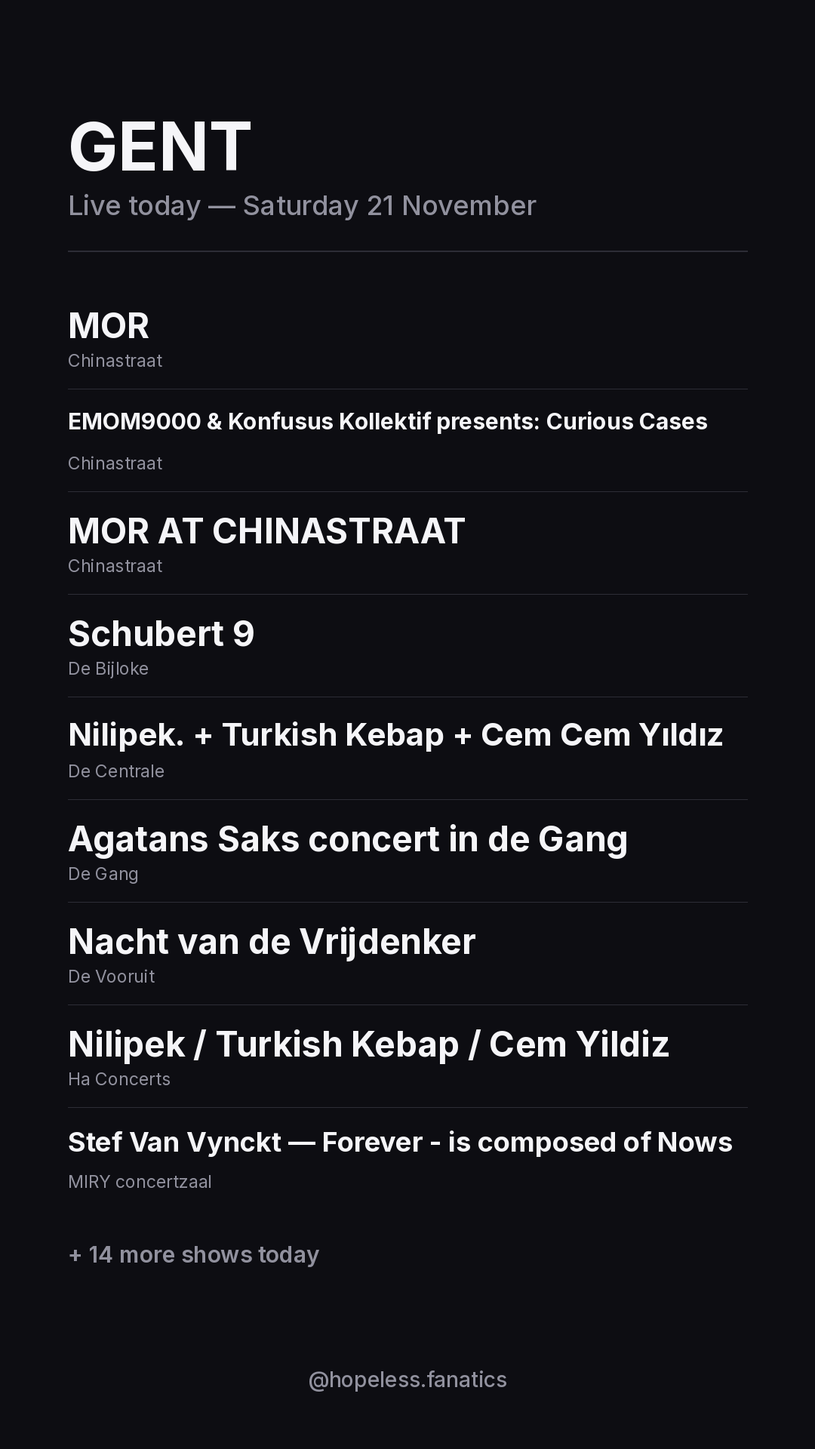
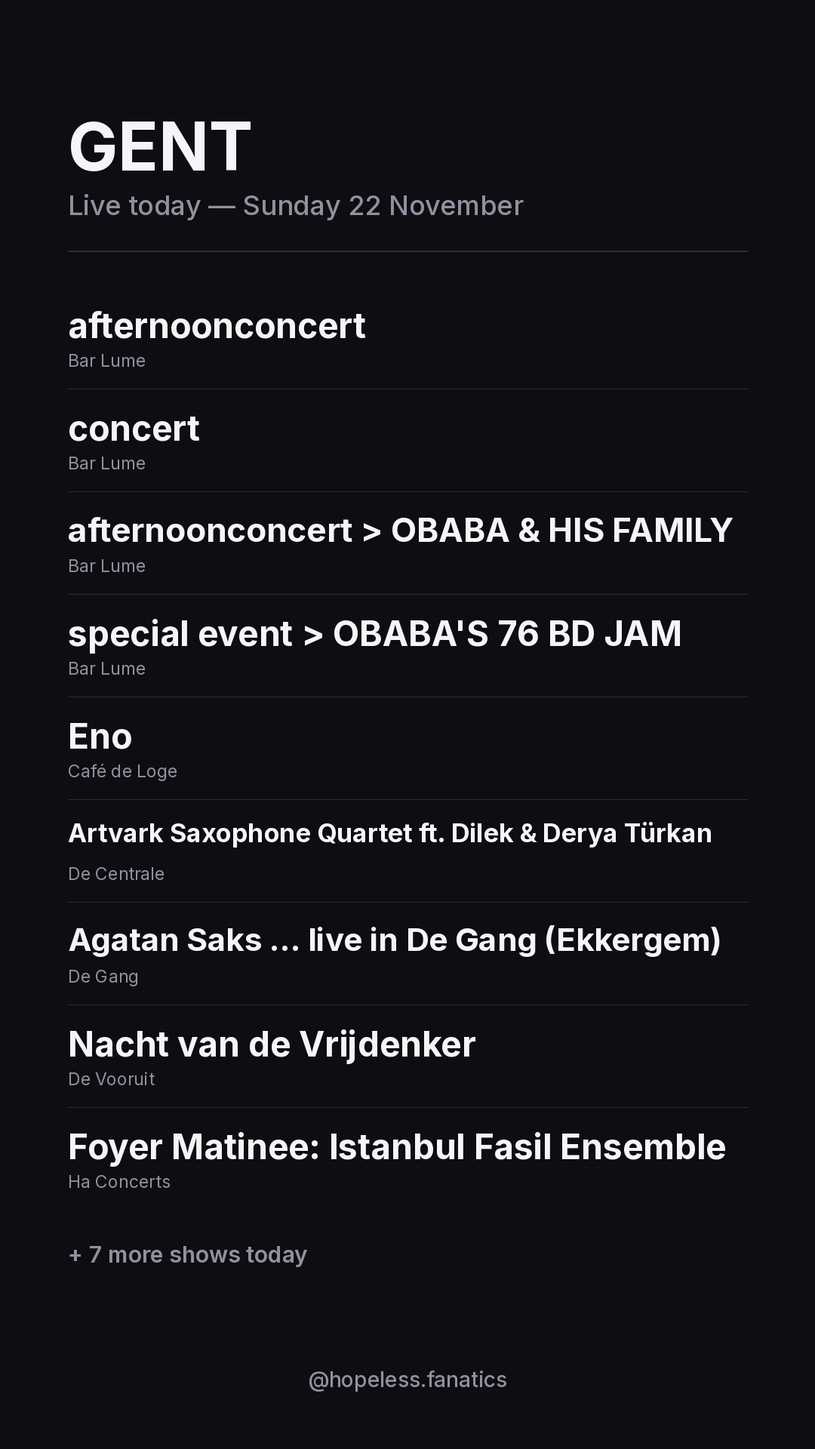
Update concert listing

diff --git a/index.html b/index.html
@@ -128,226 +128,14 @@
       <div class="filters">
         <label>Venue
           <input id="venue-filter" type="search" list="venue-options" placeholder="All venues — type to filter" autocomplete="off">
-          <datalist id="venue-options"><option value="Asgaard Gentbrugge"></option><option value="Bar Lume"></option><option value="Begijnhof Onze-Lieve-Vrouw ter Hoyen Klein Begijnhof Gent"></option><option value="Bij&#x27; De Vieze Gasten"></option><option value="Bijlokesite"></option><option value="Buurthuis Het Hoeveke"></option><option value="Café Molotov"></option><option value="Café de Loge"></option><option value="Capitole Gent"></option><option value="Charlatan"></option><option value="Chinastraat"></option><option value="Christus Koningkerk"></option><option value="Cinema Sphinx"></option><option value="De Bijloke"></option><option value="De Blaisantkerk en de Blaisanterie"></option><option value="De Centrale"></option><option value="De Centrale (Turbinezaal)"></option><option value="De Gang"></option><option value="De Kleine Sikkel"></option><option value="De Koer"></option><option value="De Vierde Zaal"></option><option value="De Vooruit"></option><option value="Feeszaal Brouwerij Haeseveld"></option><option value="Geheel de Uwe"></option><option value="Gent OLV kerk Klein Begijnhof"></option><option value="Grand Salon CRAL"></option><option value="Ha Concerts"></option><option value="Het Huis van Alijn"></option><option value="Hot Club Gent"></option><option value="Jeugdhuis Asgaard"></option><option value="Kapel Klein Begijnhof"></option><option value="Kapel Petit"></option><option value="Kerk van de Paters Karmelieten Gent"></option><option value="LDC De Vlaschaard"></option><option value="Lakenmetershuis"></option><option value="MIRY concertzaal"></option><option value="Marriott Hotel"></option><option value="Meerdere locaties in Gent en omstreken"></option><option value="Minardschouwburg"></option><option value="Miry Concertzaal"></option><option value="Miry zaal (conservatorium Gent)"></option><option value="Museum voor Schone Kunsten Gent (MSK)"></option><option value="Muziekcentrum De Bijloke Gent"></option><option value="Muziekcentrum Kinky Star"></option><option value="Muzikantenhuis vzw"></option><option value="NV Zebrastraat"></option><option value="Nieuwe Melac"></option><option value="O.L.V. Sint-Pieterskerk"></option><option value="Orpheus Instituut"></option><option value="Paulushuis"></option><option value="Pentagon"></option><option value="Ringo Music Bar"></option><option value="S.M.A.K. - Stedelijk Museum voor Actuele Kunst"></option><option value="Sint Amanduskerk"></option><option value="Sint Gerolfkerk"></option><option value="Sint Lievenscollege"></option><option value="Sint Niklaaskerk"></option><option value="Sint Pauluskerk"></option><option value="Sint Pieterskerk"></option><option value="Sint-Amanduskerk"></option><option value="Sint-Baafskathedraal"></option><option value="Sint-Coleta Kerk"></option><option value="Sint-Coletakerk"></option><option value="Sint-Lievenskerk"></option><option value="Sint-Stefanuskerk"></option><option value="Sint-Widostraat"></option><option value="Stoom | Sociale stadssauna"></option><option value="Theater Box"></option><option value="Theaterzaal NTGent"></option><option value="Trefpunt - Café"></option><option value="Trefpunt - Concertzaal"></option><option value="VIERNULVIER"></option><option value="Vooruit (concertzaal)"></option><option value="Westerbegraafplaats Gent"></option><option value="Wintercircus"></option><option value="Zaal Club Black Box"></option><option value="Zaal Goedleven"></option><option value="karmelietenkerk"></option><option value="parochiehuis Sint-Paulus"></option></datalist>
+          <datalist id="venue-options"><option value="Asgaard Gentbrugge"></option><option value="Bar Lume"></option><option value="Begijnhof Onze-Lieve-Vrouw ter Hoyen Klein Begijnhof Gent"></option><option value="Bij&#x27; De Vieze Gasten"></option><option value="Bijlokesite"></option><option value="Buurthuis Het Hoeveke"></option><option value="Café Molotov"></option><option value="Café de Loge"></option><option value="Capitole Gent"></option><option value="Charlatan"></option><option value="Chinastraat"></option><option value="Christus Koningkerk"></option><option value="Cinema Sphinx"></option><option value="De Bijloke"></option><option value="De Blaisantkerk en de Blaisanterie"></option><option value="De Centrale"></option><option value="De Centrale (Turbinezaal)"></option><option value="De Gang"></option><option value="De Kleine Sikkel"></option><option value="De Koer"></option><option value="De Vierde Zaal"></option><option value="De Vooruit"></option><option value="Feeszaal Brouwerij Haeseveld"></option><option value="Geheel de Uwe"></option><option value="Gent OLV kerk Klein Begijnhof"></option><option value="Grand Salon CRAL"></option><option value="Ha Concerts"></option><option value="Het Huis van Alijn"></option><option value="Hot Club Gent"></option><option value="Jeugdhuis Asgaard"></option><option value="Kapel Klein Begijnhof"></option><option value="Kapel Petit"></option><option value="Kerk van de Paters Karmelieten Gent"></option><option value="LDC De Vlaschaard"></option><option value="Lakenmetershuis"></option><option value="MIRY concertzaal"></option><option value="Marriott Hotel"></option><option value="Meerdere locaties in Gent en omstreken"></option><option value="Minardschouwburg"></option><option value="Miry Concertzaal"></option><option value="Miry zaal (conservatorium Gent)"></option><option value="Museum voor Schone Kunsten Gent (MSK)"></option><option value="Muziekcentrum De Bijloke Gent"></option><option value="Muziekcentrum Kinky Star"></option><option value="Muzikantenhuis vzw"></option><option value="NV Zebrastraat"></option><option value="Nieuwe Melac"></option><option value="O.L.V. Sint-Pieterskerk"></option><option value="Orpheus Instituut"></option><option value="Paulushuis"></option><option value="Ringo Music Bar"></option><option value="S.M.A.K. - Stedelijk Museum voor Actuele Kunst"></option><option value="Sint Amanduskerk"></option><option value="Sint Gerolfkerk"></option><option value="Sint Lievenscollege"></option><option value="Sint Niklaaskerk"></option><option value="Sint Pauluskerk"></option><option value="Sint Pieterskerk"></option><option value="Sint-Amanduskerk"></option><option value="Sint-Baafskathedraal"></option><option value="Sint-Coleta Kerk"></option><option value="Sint-Coletakerk"></option><option value="Sint-Lievenskerk"></option><option value="Sint-Stefanuskerk"></option><option value="Sint-Widostraat"></option><option value="Stoom | Sociale stadssauna"></option><option value="Theater Box"></option><option value="Theaterzaal NTGent"></option><option value="Trefpunt - Café"></option><option value="Trefpunt - Concertzaal"></option><option value="VIERNULVIER"></option><option value="Vooruit (concertzaal)"></option><option value="Westerbegraafplaats Gent"></option><option value="Wintercircus"></option><option value="Zaal Club Black Box"></option><option value="Zaal Goedleven"></option><option value="kunstencentrum CJK - Kasteel Claeys-Bouüaert"></option><option value="parochiehuis Sint-Paulus"></option></datalist>
         </label>
         <label>Genre
           <input id="genre-filter" type="search" list="genre-options" placeholder="All genres — type to filter" autocomplete="off">
-          <datalist id="genre-options"><option value="Belgium"></option><option value="Experimental Rock"></option><option value="Fusion"></option><option value="Garage Rock"></option><option value="Hip-Hop"></option><option value="House"></option><option value="Norway"></option><option value="Post-Metal"></option><option value="Progressive House"></option><option value="Progressive rock"></option><option value="Soundtrack"></option><option value="alternative"></option><option value="ambient"></option><option value="angola"></option><option value="belgian"></option><option value="black metal"></option><option value="british"></option><option value="chicago"></option><option value="classic rock"></option><option value="dana winner"></option><option value="doom metal"></option><option value="downtempo"></option><option value="dubstep"></option><option value="easy listening"></option><option value="electronic"></option><option value="female vocalists"></option><option value="folk"></option><option value="france"></option><option value="goth"></option><option value="hardcore"></option><option value="heavy"></option><option value="hyperpop"></option><option value="indie"></option><option value="indie rock"></option><option value="kleinkunst"></option><option value="krautrock"></option><option value="metalcore"></option><option value="new wave"></option><option value="pop"></option><option value="portuguese"></option><option value="post-rock"></option><option value="psychobilly"></option><option value="punk"></option><option value="rallye label"></option><option value="rap"></option><option value="rock"></option><option value="rockabilly"></option><option value="shoegaze"></option><option value="singer-songwriter"></option><option value="ska"></option><option value="synthpop"></option><option value="turkish"></option><option value="visual kei"></option></datalist>
+          <datalist id="genre-options"><option value="Belgium"></option><option value="Experimental Rock"></option><option value="Fusion"></option><option value="Garage Rock"></option><option value="Hip-Hop"></option><option value="House"></option><option value="Norway"></option><option value="Post-Metal"></option><option value="Progressive House"></option><option value="Progressive rock"></option><option value="Soundtrack"></option><option value="alternative"></option><option value="ambient"></option><option value="angola"></option><option value="belgian"></option><option value="black metal"></option><option value="british"></option><option value="chicago"></option><option value="classic rock"></option><option value="dana winner"></option><option value="doom metal"></option><option value="downtempo"></option><option value="dubstep"></option><option value="electronic"></option><option value="female vocalists"></option><option value="folk"></option><option value="france"></option><option value="goth"></option><option value="hardcore"></option><option value="heavy"></option><option value="hyperpop"></option><option value="indie"></option><option value="indie rock"></option><option value="kleinkunst"></option><option value="krautrock"></option><option value="metalcore"></option><option value="new wave"></option><option value="pop"></option><option value="portuguese"></option><option value="post-rock"></option><option value="psychobilly"></option><option value="punk"></option><option value="rallye label"></option><option value="rap"></option><option value="rock"></option><option value="shoegaze"></option><option value="singer-songwriter"></option><option value="ska"></option><option value="synthpop"></option><option value="visual kei"></option></datalist>
         </label>
       </div>
     </div>
-    <section class="day-group" data-date="2026-11-21">
-      <h3 class="day">Saturday 21 November</h3>
-      <article class="row" data-venue="De Centrale" data-genre="turkish">
-        <div class="row__art" style="background-image:url('https://i.ytimg.com/vi/JybxkJ3zXnE/mqdefault.jpg'), linear-gradient(135deg, hsl(32 52% 22%), hsl(87 60% 11%));"></div>
-        <div class="row__main">
-          <h4 class="row__band">Nilipek. + Turkish Kebap + Cem Cem Yıldız</h4>
-          <p class="row__meta">De Centrale · turkish</p>
-          <p class="row__desc">Nilipek. Nilipek. is een Turkse singer-songwriter uit Berlijn die met vier studioalbums haar stempel heeft gedrukt op de Turkse alternatieve muziekscene. Met haar authentieke DIY-geluid blijft ze haar artistieke eigenheid trouw, terwijl ze geleidelijk ook een breder publiek te bereiken. Met haar…</p>
-        </div>
-        <div class="row__actions"><a class="btn" href="https://www.uitinvlaanderen.be/agenda/e/nilipek-turkish-kebap-cem-cem-y-ld-z/decc54fb-4b7c-49dc-94f2-e34644b310d1" target="_blank">Event</a><a class="btn btn--play" href="https://music.youtube.com/watch?v=JybxkJ3zXnE&amp;list=PLHNvhdg9ZQKM" target="_blank">▶ Listen</a></div>
-      </article>
-      <article class="row" data-venue="Sint-Coleta Kerk" data-genre="">
-        <div class="row__art" style="background-image:linear-gradient(135deg, hsl(246 52% 22%), hsl(301 60% 11%));"></div>
-        <div class="row__main">
-          <h4 class="row__band">PIANO STORIES by candlelight (concert Matthias De Jaeger)</h4>
-          <p class="row__meta">Sint-Coleta Kerk</p>
-          <p class="row__desc">PIANO STORIES by candlelight concert Matthias De Jaeger Tijdens Piano Stories by Candlelight neemt pianist-componist Matthias De Jaeger je mee in een bijzonder concert vol verhalen en verbeelding. Verhalen die hij vertelt via de piano, maar ook verhalen die tussen de muziek door tot leven komen —…</p>
-        </div>
-        <div class="row__actions"><a class="btn" href="https://www.uitinvlaanderen.be/agenda/e/piano-stories-by-candlelight-concert-matthias-de-jaeger/293c98f8-1013-4ca6-af66-d84ad16a9040" target="_blank">Event</a></div>
-      </article>
-      <article class="row" data-venue="De Bijloke" data-genre="">
-        <div class="row__art" style="background-image:linear-gradient(135deg, hsl(122 52% 22%), hsl(177 60% 11%));"></div>
-        <div class="row__main">
-          <h4 class="row__band">Schubert 9</h4>
-          <p class="row__meta">De Bijloke</p>
-          <p class="row__desc">WELKOM STEPHAN ZILIAS!</p>
-        </div>
-        <div class="row__actions"><a class="btn" href="https://www.uitinvlaanderen.be/agenda/e/schubert-9/59010bb7-4c2c-43e2-b3f3-76e1c3870a31" target="_blank">Event</a></div>
-      </article>
-      <article class="row" data-venue="Muziekcentrum De Bijloke Gent" data-genre="">
-        <div class="row__art" style="background-image:linear-gradient(135deg, hsl(37 52% 22%), hsl(92 60% 11%));"></div>
-        <div class="row__main">
-          <h4 class="row__band">ARK symfonisch - Klankennest voor baby&#x27;s &amp; peuters</h4>
-          <p class="row__meta">Muziekcentrum De Bijloke Gent</p>
-          <p class="row__desc">Piano, percussie en dans roepen Stravinski’s ‘Le sacre du printemps’ op, maar wel met zachte, speelse klanken die baby’s, peuters én grote mensen verleiden
-
-Voetjes brengen de aarde in beweging, handjes reiken naar de eerste adem van de lente. Een ritueel ontvouwt zich zachtjes. De wilde ritmes en…</p>
-        </div>
-        <div class="row__actions"><a class="btn" href="https://www.uitinvlaanderen.be/agenda/e/ark-symfonisch-klankennest-voor-baby-s-peuters/3c0c3026-2b37-4685-8053-54be0564e421" target="_blank">Event</a></div>
-      </article>
-      <article class="row" data-venue="Sint-Coletakerk" data-genre="">
-        <div class="row__art" style="background-image:linear-gradient(135deg, hsl(246 52% 22%), hsl(301 60% 11%));"></div>
-        <div class="row__main">
-          <h4 class="row__band">PIANO STORIES by candlelight (concert Matthias De Jaeger)</h4>
-          <p class="row__meta">Sint-Coletakerk</p>
-          <p class="row__desc">PIANO STORIES by candlelight concert Matthias De Jaeger Tijdens Piano Stories by Candlelight neemt pianist-componist Matthias De Jaeger je mee in een bijzonder concert vol verhalen en verbeelding. Verhalen die hij vertelt via de piano, maar ook verhalen die tussen de muziek door tot leven komen —…</p>
-        </div>
-        <div class="row__actions"><a class="btn" href="https://www.uitinvlaanderen.be/agenda/e/piano-stories-by-candlelight-concert-matthias-de-jaeger/293c98f8-1013-4ca6-af66-d84ad16a9040" target="_blank">Event</a></div>
-      </article>
-      <article class="row" data-venue="Zaal Goedleven" data-genre="">
-        <div class="row__art" style="background-image:linear-gradient(135deg, hsl(232 52% 22%), hsl(287 60% 11%));"></div>
-        <div class="row__main">
-          <h4 class="row__band">The Pharaohs (UK), Dead Elvis &amp; His One Man Grave (NL) + Misterioso No-Stars</h4>
-          <p class="row__meta">Zaal Goedleven</p>
-          <p class="row__desc">Tickets Gent</p>
-        </div>
-        <div class="row__actions"><a class="btn" href="https://tickets.ticketsgent.be/nl/buyingflow/tickets/44813/90875/" target="_blank">Event</a></div>
-      </article>
-      <article class="row" data-venue="Sint Pauluskerk" data-genre="">
-        <div class="row__art" style="background-image:linear-gradient(135deg, hsl(205 52% 22%), hsl(260 60% 11%));"></div>
-        <div class="row__main">
-          <h4 class="row__band">Koorconcert &quot;Wanneer de nacht wijkt&quot;</h4>
-          <p class="row__meta">Sint Pauluskerk</p>
-          <p class="row__desc">Vocaal ensemble Dudoka en strijkkwintet Gustav brengen olv Siewald Degraeve een koorprogramma rond eindigheid, Wapenstilstand en Advent.  Per ticket gaat er 2 euro naar het Berrefonds , een steun voor gezinnen die een kind moeten missen. Jean-Jacques Dohogne, bariton, Ilse Van Driessche, piano Met…</p>
-        </div>
-        <div class="row__actions"><a class="btn" href="https://www.uitinvlaanderen.be/agenda/e/koorconcert-wanneer-de-nacht-wijkt/ae0128fb-a53a-4476-945a-0be059ba5d1b" target="_blank">Event</a></div>
-      </article>
-      <article class="row" data-venue="Muziekcentrum Kinky Star" data-genre="">
-        <div class="row__art" style="background-image:url('https://i.ytimg.com/vi/WFVfa-Lq4PI/mqdefault.jpg'), linear-gradient(135deg, hsl(255 52% 22%), hsl(310 60% 11%));"></div>
-        <div class="row__main">
-          <h4 class="row__band">MONOCHROME #02: Bergaf (BE) + Radar Machine (NL) + FAILED (BE)</h4>
-          <p class="row__meta">Muziekcentrum Kinky Star</p>
-          <p class="row__desc">FailedBelgian cold wave trio FAILED emerges from the darker edges of post-punk and dark wave, combining stark intensity with a restrained, atmospheric tension.</p>
-        </div>
-        <div class="row__actions"><a class="btn" href="https://www.kinkystar.com/nl/events/2026-11-21-monochrome-02-bergaf-be-radar-machine-nl-failed-be" target="_blank">Event</a><a class="btn btn--play" href="https://music.youtube.com/watch?v=WFVfa-Lq4PI&amp;list=PLHNvhdg9ZQKM" target="_blank">▶ Listen</a></div>
-      </article>
-      <article class="row" data-venue="karmelietenkerk" data-genre="">
-        <div class="row__art" style="background-image:linear-gradient(135deg, hsl(15 52% 22%), hsl(70 60% 11%));"></div>
-        <div class="row__main">
-          <h4 class="row__band">MEMORIA ETERNA - Kamerkoor El Grillo</h4>
-          <p class="row__meta">karmelietenkerk</p>
-          <p class="row__desc">Frei Manuel Cardoso (1566–1650) leefde onder Spaans bewind, maar zag in 1640 het onafhankelijke Portugal herboren worden. Als karmeliet in Lissabon behoorde hij tot de gouden generatie van de Portugese polyfonie. Zijn zesstemmige dodenmis of Missa pro defunctis uit 1625 is een absoluut hoogtepunt…</p>
-        </div>
-        <div class="row__actions"><a class="btn" href="https://www.uitinvlaanderen.be/agenda/e/memoria-eterna-kamerkoor-el-grillo/74f8ada5-a3cf-4ba9-842d-aa6c4fba9049" target="_blank">Event</a></div>
-      </article>
-      <article class="row" data-venue="MIRY concertzaal" data-genre="">
-        <div class="row__art" style="background-image:linear-gradient(135deg, hsl(123 52% 22%), hsl(178 60% 11%));"></div>
-        <div class="row__main">
-          <h4 class="row__band">Stef Van Vynckt — Forever - is composed of Nows</h4>
-          <p class="row__meta">MIRY concertzaal</p>
-          <p class="row__desc">De harp, één van de oudste instrumenten ter wereld, is nog lang niet uitgespeeld en daar zit Stef Van Vynckt voor iets tussen. Door zijn veelvuldige samenwerkingen met componisten breidt hij het harprepertoire systematisch uit. Het brengt hem naar ’s werelds mooiste zalen en festivals, zoals het…</p>
-        </div>
-        <div class="row__actions"><a class="btn" href="https://www.uitinvlaanderen.be/agenda/e/stef-van-vynckt-forever-is-composed-of-nows/8b49c1e2-212f-4378-938e-57bdfe21d630" target="_blank">Event</a></div>
-      </article>
-      <article class="row" data-venue="VIERNULVIER" data-genre="">
-        <div class="row__art" style="background-image:linear-gradient(135deg, hsl(26 52% 22%), hsl(81 60% 11%));"></div>
-        <div class="row__main">
-          <h4 class="row__band">DUB CIRCUS</h4>
-          <p class="row__meta">VIERNULVIER</p>
-          <p class="row__desc">Aba Shanti-I, een van de invloedrijkste Engelse dub producers van de laatste 30 jaar, komt naar Club Wintercircus.</p>
-        </div>
-        <div class="row__actions"><a class="btn" href="https://www.viernulvier.gent/nl/agenda/dub-circus-45nw" target="_blank">Event</a></div>
-      </article>
-      <article class="row" data-venue="Ha Concerts" data-genre="easy listening">
-        <div class="row__art" style="background-image:url('https://i.ytimg.com/vi/JybxkJ3zXnE/mqdefault.jpg'), linear-gradient(135deg, hsl(301 52% 22%), hsl(356 60% 11%));"></div>
-        <div class="row__main">
-          <h4 class="row__band">Nilipek / Turkish Kebap / Cem Yildiz</h4>
-          <p class="row__meta">Ha Concerts · easy listening</p>
-          <p class="row__desc">Dit event vindt plaats bij De Centrale Turkse alternatieve scene - tussen folk, indie &amp; electro Drie artiesten met roots in de Turkse muziektraditie tonen hoe veelzijdig en actueel die vandaag klinkt. De Berlijnse singer-songwriter Nilipek. koppelt haar ingetogen indiefolk aan persoonlijke…</p>
-        </div>
-        <div class="row__actions"><a class="btn" href="https://www.uitinvlaanderen.be/agenda/e/nilipek-turkish-kebap-cem-yildiz/5c2ee9c2-912c-41e4-bca9-25c7ff74d3a9" target="_blank">Event</a><a class="btn btn--play" href="https://music.youtube.com/watch?v=JybxkJ3zXnE&amp;list=PLHNvhdg9ZQKM" target="_blank">▶ Listen</a></div>
-      </article>
-      <article class="row" data-venue="Sint Niklaaskerk" data-genre="">
-        <div class="row__art" style="background-image:linear-gradient(135deg, hsl(53 52% 22%), hsl(108 60% 11%));"></div>
-        <div class="row__main">
-          <h4 class="row__band">Bach Concerts Ghent: Orgelconcert door Johan Hermans</h4>
-          <p class="row__meta">Sint Niklaaskerk</p>
-          <p class="row__desc">De Bachconcerten zijn een reeks orgelconcerten in de Sint-Niklaaskerk in het hart van Gent. Elke derde zaterdag van de maand om 16u kan je genieten van een uniek programma waar de monumentale orgelwerken van Johann Sebastian Bach centraal staan. Deze concerten worden georganiseerd in afwachting van…</p>
-        </div>
-        <div class="row__actions"><a class="btn" href="https://www.uitinvlaanderen.be/agenda/e/bach-concerts-ghent-orgelconcert-door-johan-hermans/f49d009b-5bdd-489d-bc68-6fe15261b92d" target="_blank">Event</a></div>
-      </article>
-      <article class="row" data-venue="Trefpunt - Concertzaal" data-genre="hardcore">
-        <div class="row__art" style="background-image:url('https://i.ytimg.com/vi/lpgj5ouACBc/mqdefault.jpg'), linear-gradient(135deg, hsl(152 52% 22%), hsl(207 60% 11%));"></div>
-        <div class="row__main">
-          <h4 class="row__band">WRONG MAN - ‘Here’s That Feeling’ Release Show</h4>
-          <p class="row__meta">Trefpunt - Concertzaal · hardcore</p>
-          <p class="row__desc">WRONG MAN zal hun gloednieuwe debuutalbum voorstellen, dat wordt uitgebracht via Deathwish Inc. Na twee EP’s die de basis legden voor de zich…</p>
-        </div>
-        <div class="row__actions"><a class="btn" href="https://trefpuntfestival.be/programma/wrong-man-heres-that-feeling-release-show-2" target="_blank">Event</a><a class="btn btn--play" href="https://music.youtube.com/watch?v=lpgj5ouACBc&amp;list=PLHNvhdg9ZQKM" target="_blank">▶ Listen</a></div>
-      </article>
-      <article class="row" data-venue="Pentagon" data-genre="">
-        <div class="row__art" style="background-image:linear-gradient(135deg, hsl(31 52% 22%), hsl(86 60% 11%));"></div>
-        <div class="row__main">
-          <h4 class="row__band">Schubert Strijkkwintet</h4>
-          <p class="row__meta">Pentagon</p>
-          <p class="row__desc">In onze masterclass dit jaar hebben we het genoegen om meestercellist Jeroen Reuling in Gent uit te nodigen. In het Pentagon, een oude verkeerscentrale die omgetoverd is tot hippe culturele plek aan de Wiedauwkaai, zal voor het eerst een masterclass klassieke muziek plaatsvinden. Reuling zal een…</p>
-        </div>
-        <div class="row__actions"><a class="btn" href="https://www.uitinvlaanderen.be/agenda/e/schubert-strijkkwintet/11e88801-db20-430c-acf1-e09b6d414847" target="_blank">Event</a></div>
-      </article>
-      <article class="row" data-venue="Trefpunt - Concertzaal" data-genre="hardcore">
-        <div class="row__art" style="background-image:url('https://i.ytimg.com/vi/lpgj5ouACBc/mqdefault.jpg'), linear-gradient(135deg, hsl(333 52% 22%), hsl(28 60% 11%));"></div>
-        <div class="row__main">
-          <h4 class="row__band">Wrong Man - Here&#x27;s that feeling Release Show</h4>
-          <p class="row__meta">Trefpunt - Concertzaal · hardcore</p>
-          <p class="row__desc">WRONG MAN presenteert hun gloednieuwe debuutalbum, dat zal verschijnen via Deathwish Inc.</p>
-        </div>
-        <div class="row__actions"><a class="btn" href="https://trefpuntfestival.be/programma/wrong-man-heres-that-feeling-release-show-3" target="_blank">Event</a><a class="btn btn--play" href="https://music.youtube.com/watch?v=lpgj5ouACBc&amp;list=PLHNvhdg9ZQKM" target="_blank">▶ Listen</a></div>
-      </article>
-      <article class="row" data-venue="Muziekcentrum Kinky Star" data-genre="alternative">
-        <div class="row__art" style="background-image:url('https://i.ytimg.com/vi/6jAngNPHVZ0/mqdefault.jpg'), linear-gradient(135deg, hsl(329 52% 22%), hsl(24 60% 11%));"></div>
-        <div class="row__main">
-          <h4 class="row__band">MONOCHROME #02: The Dark Wave (NL) + Radar Machine (NL) + FAILED (BE)</h4>
-          <p class="row__meta">Muziekcentrum Kinky Star · alternative</p>
-          <p class="row__desc">Failed (BE)Belgian cold wave trio FAILED emerges from the darker edges of post-punk and dark wave, combining stark intensity with a restrained, atmospheric tens</p>
-        </div>
-        <div class="row__actions"><a class="btn" href="https://www.kinkystar.com/nl/events/2026-11-21-monochrome-02-the-dark-wave-nl-radar-machine-nl-failed-be" target="_blank">Event</a><a class="btn btn--play" href="https://music.youtube.com/watch?v=6jAngNPHVZ0&amp;list=PLHNvhdg9ZQKM" target="_blank">▶ Listen</a></div>
-      </article>
-      <article class="row" data-venue="Chinastraat" data-genre="black metal">
-        <div class="row__art" style="background-image:url('https://i.ytimg.com/vi/R0uthHTTlsQ/mqdefault.jpg'), linear-gradient(135deg, hsl(300 52% 22%), hsl(355 60% 11%));"></div>
-        <div class="row__main">
-          <h4 class="row__band">MOR</h4>
-          <p class="row__meta">Chinastraat · black metal</p>
-          <p class="row__desc">DORUK CAN presents MOR, a new event series kicking off at Chinastraat. This special night is curated to support the community, with tickets kept accessible to everyone at €5.</p>
-        </div>
-        <div class="row__actions"><a class="btn" href="https://shop.weeztix.com/87b43037-76d1-11f0-a9cb-7e126431635e/tickets?fbclid=IwY2xjawVX4HZleHRuA2FlbQIxMABwZG9mBWJyaWQRMWRFZWxxaU5RYUlMbGxMcWRzcnRjBmFwcF9pZBAyMjIwMzkxNzg4MjAwODkyAAEfpVzPdo-5tH3XaURTZID7QU8RHOuESeXckXabov26jbSLaNERBB83QQYSXuE_aem_FzN4ixuwN5Y0xeptD6RBEw&amp;shop_code=tuqffuxv&amp;original_referer=https%3A%2F%2Fl.facebook.com%2F" target="_blank">Event</a><a class="btn btn--play" href="https://music.youtube.com/watch?v=R0uthHTTlsQ&amp;list=PLHNvhdg9ZQKM" target="_blank">▶ Listen</a></div>
-      </article>
-      <article class="row" data-venue="Zaal Club Black Box" data-genre="rockabilly">
-        <div class="row__art" style="background-image:linear-gradient(135deg, hsl(88 52% 22%), hsl(143 60% 11%));"></div>
-        <div class="row__main">
-          <h4 class="row__band">Dead Elvis &amp; His One Man Grave (NL) + Misterioso No-Stars</h4>
-          <p class="row__meta">Zaal Club Black Box · rockabilly</p>
-          <p class="row__desc">Tickets Gent</p>
-        </div>
-        <div class="row__actions"><a class="btn" href="https://tickets.ticketsgent.be/nl/buyingflow/tickets/44813/90875/" target="_blank">Event</a></div>
-      </article>
-      <article class="row" data-venue="De Vooruit" data-genre="">
-        <div class="row__art" style="background-image:linear-gradient(135deg, hsl(143 52% 22%), hsl(198 60% 11%));"></div>
-        <div class="row__main">
-          <h4 class="row__band">Nacht van de Vrijdenker</h4>
-          <p class="row__meta">De Vooruit</p>
-          <p class="row__desc">Jaarlijks ideeënfestival Nacht van de Vrijdenker keert terug in haar vertrouwde festivalformule op zaterdag 21 november 2026 . Verwacht je aan een avondvullend parallelprogramma verspreid over vier zalen, met debatten, lezingen en panelgesprekken rond filosofie , maatschappelijke vraagstukken ,…</p>
-        </div>
-        <div class="row__actions"><a class="btn" href="https://www.uitinvlaanderen.be/agenda/e/nacht-van-de-vrijdenker/e92e8c1c-2d0e-4aa6-a95a-ce211c3e0c65" target="_blank">Event</a></div>
-      </article>
-      <article class="row" data-venue="Chinastraat" data-genre="">
-        <div class="row__art" style="background-image:linear-gradient(135deg, hsl(192 52% 22%), hsl(247 60% 11%));"></div>
-        <div class="row__main">
-          <h4 class="row__band">EMOM9000 &amp; Konfusus Kollektif presents: Curious Cases</h4>
-          <p class="row__meta">Chinastraat</p>
-          <p class="row__desc">Sound &amp; art collective based in Ghent, Belgium.</p>
-        </div>
-        <div class="row__actions"><a class="btn" href="https://shop.paylogic.com/0d9f4f3485cb496a9b320c6110a9b5ac/" target="_blank">Event</a></div>
-      </article>
-      <article class="row" data-venue="De Gang" data-genre="">
-        <div class="row__art" style="background-image:linear-gradient(135deg, hsl(122 52% 22%), hsl(177 60% 11%));"></div>
-        <div class="row__main">
-          <h4 class="row__band">Agatans Saks concert in de Gang</h4>
-          <p class="row__meta">De Gang</p>
-          <p class="row__desc">&quot;Agatan Saks is het muzikale project van gitarist Jo Morato en saxofonist Pieter Ruebens. Samen met percussionist Geert Simoen creëren ze een uniek universum vol warme klanken, energieke ritmes en verrassende wendingen. Hun geluid wordt gedreven door improvisatie en meeslepende soundscapes, pittig…</p>
-        </div>
-        <div class="row__actions"><a class="btn" href="https://www.uitinvlaanderen.be/agenda/e/agatans-saks-concert-in-de-gang/06259535-ccec-4d52-a372-fc77453c3619" target="_blank">Event</a></div>
-      </article>
-      <article class="row" data-venue="Chinastraat" data-genre="">
-        <div class="row__art" style="background-image:linear-gradient(135deg, hsl(224 52% 22%), hsl(279 60% 11%));"></div>
-        <div class="row__main">
-          <h4 class="row__band">MOR AT CHINASTRAAT</h4>
-          <p class="row__meta">Chinastraat</p>
-          <p class="row__desc">DORUK CAN presents MOR, a new event series kicking off at Chinastraat. This special night is curated to support the community, with tickets kept accessible to everyone at €5.</p>
-        </div>
-        <div class="row__actions"><a class="btn" href="https://shop.weeztix.com/87b43037-76d1-11f0-a9cb-7e126431635e/tickets?fbclid=IwY2xjawVX4HZleHRuA2FlbQIxMABwZG9mBWJyaWQRMWRFZWxxaU5RYUlMbGxMcWRzcnRjBmFwcF9pZBAyMjIwMzkxNzg4MjAwODkyAAEfpVzPdo-5tH3XaURTZID7QU8RHOuESeXckXabov26jbSLaNERBB83QQYSXuE_aem_FzN4ixuwN5Y0xeptD6RBEw&amp;shop_code=tuqffuxv&amp;original_referer=https%3A%2F%2Fl.facebook.com%2F" target="_blank">Event</a></div>
-      </article>
-    </section>
     <section class="day-group" data-date="2026-11-22">
       <h3 class="day">Sunday 22 November</h3>
       <article class="row" data-venue="De Centrale" data-genre="">
@@ -2188,6 +1976,15 @@ Na twee uitverkochte edities duiken we opnieuw de jaren nul in. Een decennium wa
         </div>
         <div class="row__actions"><a class="btn" href="https://trefpuntfestival.be/programma/levend-erfgoed-uit-de-levant-de-mijwiz" target="_blank">Event</a></div>
       </article>
+      <article class="row" data-venue="kunstencentrum CJK - Kasteel Claeys-Bouüaert" data-genre="">
+        <div class="row__art" style="background-image:linear-gradient(135deg, hsl(246 52% 22%), hsl(301 60% 11%));"></div>
+        <div class="row__main">
+          <h4 class="row__band">PIANO STORIES by candlelight (concert Matthias De Jaeger)</h4>
+          <p class="row__meta">kunstencentrum CJK - Kasteel Claeys-Bouüaert</p>
+          <p class="row__desc">PIANO STORIES by candlelight concert Matthias De Jaeger Tijdens Piano Stories by Candlelight neemt pianist-componist Matthias De Jaeger je mee in een bijzonder concert vol verhalen en verbeelding. Verhalen die hij vertelt via de piano, maar ook verhalen die tussen de muziek door tot leven komen —…</p>
+        </div>
+        <div class="row__actions"><a class="btn" href="https://www.uitinvlaanderen.be/agenda/e/piano-stories-by-candlelight-concert-matthias-de-jaeger/5b6a94bb-90ef-4f7c-9f9e-2f3dd8188ce4" target="_blank">Event</a></div>
+      </article>
     </section>
     <section class="day-group" data-date="2026-12-13">
       <h3 class="day">Sunday 13 December</h3>
@@ -2639,6 +2436,15 @@ Brahms gaat aan de slag met Bachs befaamde &#x27;Chaconne&#x27;, Ravel groet een
           <p class="row__desc">Dit jaarlijks initiatief wil mensen samenbrengen rond muziek en verbondenheid. Ook solidariteit krijgt tijdens Gent zingt Kerst een bijzondere plaats. We steunen VZW De fontein, waar daklozen terechtkunnen. Naast de traditionele kerstliederen staan we ook stil bij de wereld waarin wij vandaag…</p>
         </div>
         <div class="row__actions"><a class="btn" href="https://www.uitinvlaanderen.be/agenda/e/gent-zingt-kerst-samenzang/694fcced-ddc8-49a6-8f01-fd0b9f08fca8" target="_blank">Event</a></div>
+      </article>
+      <article class="row" data-venue="Sint Niklaaskerk" data-genre="">
+        <div class="row__art" style="background-image:linear-gradient(135deg, hsl(95 52% 22%), hsl(150 60% 11%));"></div>
+        <div class="row__main">
+          <h4 class="row__band">Bach Concerts Ghent: Orgelconcert door Wolfgang Zerer</h4>
+          <p class="row__meta">Sint Niklaaskerk</p>
+          <p class="row__desc">De Bachconcerten zijn een reeks orgelconcerten in de Sint-Niklaaskerk in het hart van Gent. Elke derde zaterdag van de maand om 16u kan je genieten van een uniek programma waar de monumentale orgelwerken van Johann Sebastian Bach centraal staan. Deze concerten worden georganiseerd in afwachting van…</p>
+        </div>
+        <div class="row__actions"><a class="btn" href="https://www.uitinvlaanderen.be/agenda/e/bach-concerts-ghent-orgelconcert-door-wolfgang-zerer/9a7c8676-3ae1-431f-b6cb-d841d6dd8f7d" target="_blank">Event</a></div>
       </article>
     </section>
     <section class="day-group" data-date="2026-12-20">
@@ -3503,6 +3309,15 @@ In het manuscript van zijn &#x27;Negende&#x27; en laatste symfonie, geschreven i
         </div>
         <div class="row__actions"><a class="btn" href="https://www.charlatan.be/agenda/pablo-honey-6h4b" target="_blank">Event</a></div>
       </article>
+      <article class="row" data-venue="VIERNULVIER" data-genre="folk">
+        <div class="row__art" style="background-image:url('https://i.ytimg.com/vi/Vc4_luvbnMk/mqdefault.jpg'), linear-gradient(135deg, hsl(8 52% 22%), hsl(63 60% 11%));"></div>
+        <div class="row__main">
+          <h4 class="row__band">The Tallest Man on Earth</h4>
+          <p class="row__meta">VIERNULVIER · folk</p>
+          <p class="row__desc">The Tallest Man on Earth brengt zijn meest gewortelde album ooit (Just Beyond Endless Mountain) op 10 februari 2027 naar de Vooruit Concertzaal.</p>
+        </div>
+        <div class="row__actions"><a class="btn" href="https://www.viernulvier.gent/nl/agenda/the-tallest-man-on-earth-7ph3" target="_blank">Event</a><a class="btn btn--play" href="https://music.youtube.com/watch?v=Vc4_luvbnMk&amp;list=PLHNvhdg9ZQKM" target="_blank">▶ Listen</a></div>
+      </article>
     </section>
     <section class="day-group" data-date="2027-02-11">
       <h3 class="day">Thursday 11 February</h3>
@@ -3712,6 +3527,29 @@ Sinds hij de eerste editie van de Koningin Elisabethwedstrijd voor cello won in 
           <p class="row__desc">Kinshasa ontmoet Gentse global grooves Het Gentse Compro Oro smeedt al meer dan tien jaar een eigenzinnig klankenpalet uit jazz, psychedelica en global sounds. Na muzikale tussenstops in Havana, Mogadishu en Istanbul trekt het vijftal voor hun nieuwste project naar Kinshasa. Samen met de Congolese…</p>
         </div>
         <div class="row__actions"><a class="btn" href="https://www.uitinvlaanderen.be/agenda/e/compro-oro-ft-bouton-kalanda/ff17e1cb-d396-40f1-a92f-ab34421e1a96" target="_blank">Event</a></div>
+      </article>
+    </section>
+    <section class="day-group" data-date="2027-02-21">
+      <h3 class="day">Sunday 21 February</h3>
+      <article class="row" data-venue="Capitole Gent" data-genre="">
+        <div class="row__art" style="background-image:url('https://i.ytimg.com/vi/bN583v1sL0s/mqdefault.jpg'), linear-gradient(135deg, hsl(234 52% 22%), hsl(289 60% 11%));"></div>
+        <div class="row__main">
+          <h4 class="row__band">La Traviata</h4>
+          <p class="row__meta">Capitole Gent</p>
+          <p class="row__desc">Verdi&#x27;s onsterfelijke meesterwerk La Traviata komt tot leven op het podium. Laat u meeslepen door de wereldberoemde aria&#x27;s, een schitterend orkest en een betoverende enscenering die het tragische liefdesverhaal van Violetta vol passie en emotie tot leven brengt. Een onvergetelijke avond vol pure…</p>
+        </div>
+        <div class="row__actions"><a class="btn" href="https://www.uitinvlaanderen.be/agenda/e/la-traviata/d60680be-3300-4efc-8f6a-d0871ce7ca24" target="_blank">Event</a><a class="btn btn--play" href="https://music.youtube.com/watch?v=bN583v1sL0s&amp;list=PLHNvhdg9ZQKM" target="_blank">▶ Listen</a></div>
+      </article>
+      <article class="row" data-venue="Muziekcentrum De Bijloke Gent" data-genre="">
+        <div class="row__art" style="background-image:linear-gradient(135deg, hsl(174 52% 22%), hsl(229 60% 11%));"></div>
+        <div class="row__main">
+          <h4 class="row__band">De Johannespassie - B&#x27;Rock Orchestra &amp; René Jacobs</h4>
+          <p class="row__meta">Muziekcentrum De Bijloke Gent</p>
+          <p class="row__desc">Drie hele grote namen op één affiche: B&#x27;Rock en Jacobs brengen Bachs felste en meest genadeloze passie
+
+Sommige concerten behoeven geen promopraat. B&#x27;Rock en René Jacobs brengen Bachs ‘Johannespassie’, zijn felste en meest dramatische toonzetting van het Bijbelse lijdensverhaal ooit. In drie…</p>
+        </div>
+        <div class="row__actions"><a class="btn" href="https://www.uitinvlaanderen.be/agenda/e/de-johannespassie-b-rock-orchestra-ren-jacobs/48b69166-da51-4a55-9ce9-2726ce48f0b2" target="_blank">Event</a></div>
       </article>
     </section>
     <p class="empty" id="empty-state" hidden>No upcoming concerts right now — check back soon.</p>

diff --git a/brugge.html b/brugge.html
@@ -132,40 +132,10 @@
         </label>
         <label>Genre
           <input id="genre-filter" type="search" list="genre-options" placeholder="All genres — type to filter" autocomplete="off">
-          <datalist id="genre-options"><option value="American Primitivism"></option><option value="Belgium"></option><option value="Classical"></option><option value="Garage Rock"></option><option value="Norway"></option><option value="Psychedelic Rock"></option><option value="Surf"></option><option value="african"></option><option value="amazing"></option><option value="baroque"></option><option value="belgian"></option><option value="dana winner"></option><option value="early music"></option><option value="indie"></option><option value="indie rock"></option><option value="jangle pop"></option><option value="jazz"></option><option value="kleinkunst"></option><option value="noise pop"></option><option value="noise rock"></option><option value="piano"></option><option value="pop"></option><option value="post-punk"></option><option value="post-rock"></option><option value="rallye label"></option><option value="singer-songwriter"></option><option value="traditional"></option></datalist>
+          <datalist id="genre-options"><option value="American Primitivism"></option><option value="Belgium"></option><option value="Classical"></option><option value="Garage Rock"></option><option value="Norway"></option><option value="Psychedelic Rock"></option><option value="Surf"></option><option value="african"></option><option value="amazing"></option><option value="baroque"></option><option value="belgian"></option><option value="dana winner"></option><option value="early music"></option><option value="indie"></option><option value="indie rock"></option><option value="jangle pop"></option><option value="jazz"></option><option value="kleinkunst"></option><option value="noise pop"></option><option value="noise rock"></option><option value="pop"></option><option value="post-punk"></option><option value="post-rock"></option><option value="rallye label"></option><option value="singer-songwriter"></option><option value="traditional"></option></datalist>
         </label>
       </div>
     </div>
-    <section class="day-group" data-date="2026-11-21">
-      <h3 class="day">Saturday 21 November</h3>
-      <article class="row" data-venue="Cactus Muziekcentrum" data-genre="jazz">
-        <div class="row__art" style="background-image:url('https://i.ytimg.com/vi/LTk3yy8jN6E/mqdefault.jpg'), linear-gradient(135deg, hsl(320 52% 22%), hsl(15 60% 11%));"></div>
-        <div class="row__main">
-          <h4 class="row__band">Nubiyan Twist</h4>
-          <p class="row__meta">Cactus Muziekcentrum · jazz</p>
-          <p class="row__desc">Wat krijg je als je een bende virtuoze muzikanten, straffe producers en geïnspireerde componisten loslaat op hip-hop, afrobeat, UK Jazz en soul? Nubiyan Twist!Dit negenkoppige ensemble ontstond in 2011 aan het Leeds College of Music en wordt gezien als een van de toonaangevende bands in de...</p>
-        </div>
-        <div class="row__actions"><a class="btn" href="https://www.cactusmusic.be/NL/Concerten/Kalender/nubiyan-twist" target="_blank">Event</a><a class="btn btn--play" href="https://music.youtube.com/watch?v=LTk3yy8jN6E&amp;list=PLBLMxHWQqAK4" target="_blank">▶ Listen</a></div>
-      </article>
-      <article class="row" data-venue="Concertgebouw, concertzaal" data-genre="piano">
-        <div class="row__art" style="background-image:url('https://i.ytimg.com/vi/yi5vMF0Kq2k/mqdefault.jpg'), linear-gradient(135deg, hsl(58 52% 22%), hsl(113 60% 11%));"></div>
-        <div class="row__main">
-          <h4 class="row__band">Ivo Pogorelich / Bach, Beethoven, Brahms &amp; Ravel</h4>
-          <p class="row__meta">Concertgebouw, concertzaal · piano</p>
-          <p class="row__desc">Pianolegende voor het eerst in Brugge Wanneer Ivo Pogorelich het podium betreedt, hangt er geschiedenis in de lucht. Ooit veroorzaakte hij opschudding op het befaamde Chopin-concours, waar zijn ongrijpbare talent zich niet liet vangen in juryregels. Het bleek het begin van een legendarische…</p>
-        </div>
-        <div class="row__actions"><a class="btn" href="https://www.uitinvlaanderen.be/agenda/e/ivo-pogorelich-bach-beethoven-brahms-ravel/d9389ee8-c568-48d1-ac08-f5c04a50b40c" target="_blank">Event</a><a class="btn btn--play" href="https://music.youtube.com/watch?v=yi5vMF0Kq2k&amp;list=PLBLMxHWQqAK4" target="_blank">▶ Listen</a></div>
-      </article>
-      <article class="row" data-venue="Cactus Muziekcentrum" data-genre="jazz">
-        <div class="row__art" style="background-image:url('https://i.ytimg.com/vi/TfMxqyEVqS0/mqdefault.jpg'), linear-gradient(135deg, hsl(281 52% 22%), hsl(336 60% 11%));"></div>
-        <div class="row__main">
-          <h4 class="row__band">Nubiyan Twist + Fred Gata</h4>
-          <p class="row__meta">Cactus Muziekcentrum · jazz</p>
-          <p class="row__desc">Wat krijg je als je een bende virtuoze muzikanten, straffe producers en geïnspireerde componisten loslaat op hip-hop, afrobeat, UK Jazz en soul? Nubiyan Twist!Dit negenkoppige ensemble ontstond in 2011 aan het Leeds College of Music en wordt gezien als een van de toonaangevende bands in de...</p>
-        </div>
-        <div class="row__actions"><a class="btn" href="https://www.cactusmusic.be/NL/Concerten/Kalender/nubiyan-twist" target="_blank">Event</a><a class="btn btn--play" href="https://music.youtube.com/watch?v=TfMxqyEVqS0&amp;list=PLBLMxHWQqAK4" target="_blank">▶ Listen</a></div>
-      </article>
-    </section>
     <section class="day-group" data-date="2026-11-22">
       <h3 class="day">Sunday 22 November</h3>
       <article class="row" data-venue="Cactus Muziekcentrum" data-genre="singer-songwriter">
@@ -1562,6 +1532,18 @@ Er is leven na The Van Jets, en wat voor een leven. Een leven waarin Johannes Ve
           <p class="row__desc">Muzikaal verjaardagsfeest tot in de vroege uurtjes Feesten doe je niet alleen, maar met vrienden en gelijkgestemden! Samen met drie toegewijde muzikale partners slaan we de handen in elkaar voor een sfeervolle late night sessie, verspreid over het Concertgebouw. Verwacht je aan een mix van…</p>
         </div>
         <div class="row__actions"><a class="btn" href="https://www.uitinvlaanderen.be/agenda/e/late-night-music-happy-birthday-concertgebouw/291561e3-d9b2-4981-b245-b0793b9f2d05" target="_blank">Event</a><a class="btn btn--play" href="https://music.youtube.com/watch?v=WarocMvIy4Q&amp;list=PLBLMxHWQqAK4" target="_blank">▶ Listen</a></div>
+      </article>
+    </section>
+    <section class="day-group" data-date="2027-02-21">
+      <h3 class="day">Sunday 21 February</h3>
+      <article class="row" data-venue="Concertgebouw" data-genre="">
+        <div class="row__art" style="background-image:linear-gradient(135deg, hsl(313 52% 22%), hsl(8 60% 11%));"></div>
+        <div class="row__main">
+          <h4 class="row__band">Concertgebouw by night / Stemmig nachtprogramma</h4>
+          <p class="row__meta">Concertgebouw</p>
+          <p class="row__desc">Jouw favoriete kunstenhuis van de vroege uurtjes tot de dageraad Hoe voelt het Concertgebouw in het holst van de nacht? Steek een nachtje door en ervaar het Concertgebouw eens helemaal anders tijdens dit hoogst unieke nachtprogramma. In de Kamermuziekzaal dommel je weg bij filmklassiekers, terwijl…</p>
+        </div>
+        <div class="row__actions"><a class="btn" href="https://www.uitinvlaanderen.be/agenda/e/concertgebouw-by-night-stemmig-nachtprogramma/ec238cc8-fffc-4895-a8a3-4d526b97421e" target="_blank">Event</a></div>
       </article>
     </section>
     <p class="empty" id="empty-state" hidden>No upcoming concerts right now — check back soon.</p>
